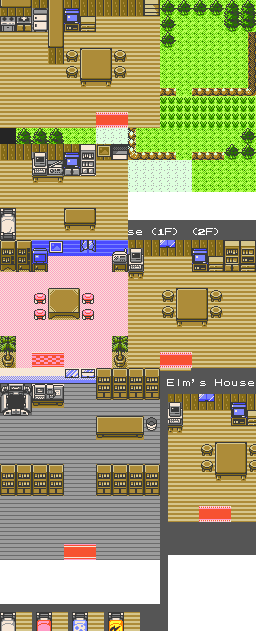
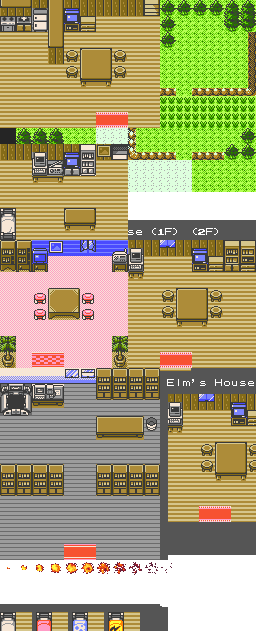
firebeam spell

Changed region(s): [[0.125, 0.8732, 0.5938, 0.9033], [0.625, 0.8732, 0.6562, 0.9635]]

diff --git a/src/systems/spell_effect.rs b/src/systems/spell_effect.rs
@@ -1,0 +1,62 @@
+use super::System;
+use crate::{
+    components::{Position, SpellEffect},
+    input::Input,
+    resource::Resources,
+};
+use hecs::World;
+use pixels::Pixels;
+use std::time::Duration;
+
+pub struct SpellEffectRenderSystem;
+
+impl System for SpellEffectRenderSystem {
+    fn update(
+        &self,
+        world: &mut World,
+        resources: &mut Resources,
+        pixels: &mut Pixels,
+        _: &Input,
+        delta_time: Duration,
+    ) {
+        for (_, (effect, position)) in world.query_mut::<(&mut SpellEffect, &Position)>() {
+            effect.frame_time += delta_time.as_secs_f32();
+
+            if effect.frame_time >= 0.06 {
+                let cloned_effect = effect.clone();
+                let frames = cloned_effect.get_sprite_frames();
+                effect.current_frame += 1;
+                effect.frame_time = 0.0;
+
+                if effect.current_frame >= frames.len() {
+                    effect.is_finished = true;
+                }
+            }
+
+            if !effect.is_finished {
+                let frames = effect.get_sprite_frames();
+                let (sprite_x, sprite_y) = frames[effect.current_frame % frames.len()];
+                let screen_pos = resources.camera.world_to_screen(*position);
+
+                resources.effects_spritesheet.0.draw_sprite_to_buffer(
+                    sprite_x,
+                    sprite_y,
+                    pixels.frame_mut(),
+                    screen_pos.x.round() as i32,
+                    screen_pos.y.round() as i32,
+                );
+            }
+        }
+
+        let mut to_remove = Vec::new();
+        for (entity, effect) in world.query::<&SpellEffect>().iter() {
+            if effect.is_finished {
+                to_remove.push(entity);
+            }
+        }
+
+        for entity in to_remove {
+            let _ = world.despawn(entity);
+        }
+    }
+}

diff --git a/src/application.rs b/src/application.rs
@@ -1,9 +1,13 @@
+use pixels_engine::components::FireSpell;
 use pixels_engine::components::Light;
 use pixels_engine::components::Player;
 use pixels_engine::resource::LightMap;
+use pixels_engine::spritesheet::EffectsSpritesheet;
+use pixels_engine::systems::cast_spell::CastSpellSystem;
 use pixels_engine::systems::light_control::LightControlSystem;
 use pixels_engine::systems::light_render::LightRenderSystem;
 use pixels_engine::systems::light_render::LightUpdateSystem;
+use pixels_engine::systems::spell_effect::SpellEffectRenderSystem;
 use pixels_engine::vec2::Vec2;
 use pixels_engine::SCALE_FACTOR;
 
@@ -64,6 +68,7 @@ impl Application {
             Movement::new(48.0),
             Player,
             Light::new(115.0, 1.0, [1.0, 1.0, 1.0]),
+            FireSpell,
         ));
 
         Self {
@@ -76,6 +81,9 @@ impl Application {
                 camera,
                 character_spritesheet: CharacterSpritesheet(
                     Spritesheet::new("./assets/characters_spritesheet.png", 16, 16).unwrap(),
+                ),
+                effects_spritesheet: EffectsSpritesheet(
+                    Spritesheet::new("./assets/effects.png", 16, 16).unwrap(),
                 ),
                 current_level_id: CurrentLevelId(tilemap.initial_level_id()),
                 tilemap,
@@ -93,9 +101,11 @@ impl Application {
         systems.add_update_system(TileAnimationSystem);
         systems.add_update_system(CameraFollowSystem);
         systems.add_update_system(LightUpdateSystem);
+        systems.add_update_system(CastSpellSystem);
 
         systems.add_render_system(TileRenderSystem);
         systems.add_render_system(SpriteRenderSystem);
+        systems.add_render_system(SpellEffectRenderSystem);
         // systems.add_render_system(LightRenderSystem);
         systems.add_render_system(LevelTransitionSystem);
 

diff --git a/src/systems/cast_spell.rs b/src/systems/cast_spell.rs
@@ -1,0 +1,59 @@
+use hecs::{With, World};
+
+use crate::{
+    components::{FireSpell, Movement, Position, SpellEffect, SpellEffectType},
+    movement_util::Direction,
+    vec2::Vec2,
+    TILE_SIZE,
+};
+
+use super::System;
+
+pub struct CastSpellSystem;
+
+impl System for CastSpellSystem {
+    fn update(
+        &self,
+        world: &mut hecs::World,
+        _: &mut crate::resource::Resources,
+        _: &mut pixels::Pixels,
+        input: &crate::input::Input,
+        _: std::time::Duration,
+    ) {
+        let mut spells_to_cast = Vec::new();
+        for (_, (position, movement)) in
+            world.query::<With<(&Position, &Movement), &FireSpell>>().iter()
+        {
+            if input.space() {
+                spells_to_cast.push((*position, movement.direction));
+            }
+        }
+
+        for (caster_position, caster_direction) in spells_to_cast {
+            cast_spell(
+                world,
+                caster_position,
+                caster_direction,
+                SpellEffectType::Fireball,
+            );
+        }
+    }
+}
+
+pub fn cast_spell(
+    world: &mut World,
+    caster_position: Position,
+    caster_direction: Direction,
+    spell_type: SpellEffectType,
+) {
+    for i in 1..=5 {
+        let offset =
+            caster_direction.to_vector() * (TILE_SIZE as f32 * i as f32) + Vec2::new(0.0, -4.0);
+        let effect_position = caster_position + offset;
+
+        world.spawn((
+            SpellEffect::new(spell_type),
+            Position::new(effect_position.x, effect_position.y),
+        ));
+    }
+}

diff --git a/src/components.rs b/src/components.rs
@@ -1,3 +1,4 @@
+use lazy_static::lazy_static;
 use std::time::Duration;
 
 use crate::input::Input;
@@ -134,4 +135,40 @@ impl Light {
             color,
         }
     }
+}
+
+pub struct FireSpell;
+
+#[derive(Debug, Clone)]
+pub struct SpellEffect {
+    pub effect_type: SpellEffectType,
+    pub current_frame: usize,
+    pub frame_time: f32,
+    pub is_finished: bool,
+}
+
+#[derive(Debug, Clone, Copy)]
+pub enum SpellEffectType {
+    Fireball,
+}
+
+impl SpellEffect {
+    pub fn new(effect_type: SpellEffectType) -> Self {
+        Self {
+            effect_type,
+            current_frame: 0,
+            frame_time: 0.0,
+            is_finished: false,
+        }
+    }
+
+    pub fn get_sprite_frames(&self) -> &[(u32, u32)] {
+        match self.effect_type {
+            SpellEffectType::Fireball => FIREBALL_FRAMES.as_slice(),
+        }
+    }
+}
+
+lazy_static! {
+    static ref FIREBALL_FRAMES: Vec<(u32, u32)> = (0..176).step_by(16).map(|x| (x, 0)).collect();
 }

diff --git a/src/tile.rs b/src/tile.rs
@@ -316,12 +316,16 @@ fn read_animation_data(
         .1
         .split(',')
         .map(|id| {
-            let id_u32 = id.parse::<u32>().expect("Failed to parse tile id");
+            let id_u32 = id.parse::<u32>().expect("Tile id in animationTiles should be a number");
             tile_id_to_position(id_u32, tileset_width)
         })
         .collect::<Vec<IVec2>>();
-    let frame_time =
-        custom_data_lines[1].split_once(":")?.1.parse::<u64>().expect("Failed to parse frame time");
+
+    let frame_time = custom_data_lines[1]
+        .split_once(":")?
+        .1
+        .parse::<u64>()
+        .expect("Frametime in animation should be a number");
 
     let tile_animation = TileAnimation::new(animation_frames, Duration::from_millis(frame_time));
 

diff --git a/src/input.rs b/src/input.rs
@@ -9,6 +9,7 @@ pub struct Input {
     shift: bool,
     j: bool,
     k: bool,
+    space: bool,
 }
 
 impl Input {
@@ -51,6 +52,10 @@ impl Input {
                     }
                     VirtualKeyCode::K => {
                         self.k = is_pressed;
+                        true
+                    }
+                    VirtualKeyCode::Space => {
+                        self.space = is_pressed;
                         true
                     }
                     VirtualKeyCode::LShift => {
@@ -118,5 +123,9 @@ impl Input {
 
     pub fn k(&self) -> bool {
         self.k
+    }
+
+    pub fn space(&self) -> bool {
+        self.space
     }
 }

diff --git a/src/resource.rs b/src/resource.rs
@@ -1,6 +1,6 @@
 use crate::{
     camera::Camera,
-    spritesheet::CharacterSpritesheet,
+    spritesheet::{CharacterSpritesheet, EffectsSpritesheet},
     systems::level_transition::ScreenTransition,
     tile::{CurrentLevelId, TileMap},
     SCREEN_HEIGHT, SCREEN_WIDTH,
@@ -9,6 +9,7 @@ use crate::{
 pub struct Resources {
     pub camera: Camera,
     pub character_spritesheet: CharacterSpritesheet,
+    pub effects_spritesheet: EffectsSpritesheet,
     // TODO : move this back into tilemap struct
     pub current_level_id: CurrentLevelId,
     pub tilemap: TileMap,

diff --git a/src/systems/movement.rs b/src/systems/movement.rs
@@ -139,7 +139,7 @@ fn is_traversable(ctx: &MovementContext) -> bool {
 }
 
 fn next_position(ctx: &MovementContext) -> Vec2 {
-    let movement_speed_multiplier = if ctx.input.shift() { 3.0 } else { 1.0 };
+    let movement_speed_multiplier = if ctx.input.shift() { 2.5 } else { 1.5 };
     let movement_vector = ctx.movement.direction.to_vector();
     let movement_step = movement_vector
         * ctx.movement.speed

diff --git a/src/systems/camera.rs b/src/systems/camera.rs
@@ -26,7 +26,7 @@ impl System for CameraFollowSystem {
     ) {
         let camera = &mut resources.camera;
         let offset = Vec2::new((TILE_SIZE / 2) as f32, TILE_SIZE as f32 / 2.0);
-        let dead_zone = TILE_SIZE as f32 * 2.0;
+        let dead_zone = TILE_SIZE as f32 * 2.5;
 
         for (_, position) in world.query_mut::<With<&Position, &Player>>() {
             let target_pos = *position + offset;

diff --git a/src/systems/mod.rs b/src/systems/mod.rs
@@ -5,12 +5,14 @@ use pixels::Pixels;
 use crate::{input::Input, resource::Resources};
 
 pub mod camera;
+pub mod cast_spell;
 pub mod character_animation;
 pub mod debug_grid;
 pub mod level_transition;
 pub mod light_control;
 pub mod light_render;
 pub mod movement;
+pub mod spell_effect;
 pub mod sprite_render;
 pub mod tile_animation;
 pub mod tile_render;

diff --git a/src/spritesheet.rs b/src/spritesheet.rs
@@ -5,6 +5,7 @@ use image::{DynamicImage, GenericImageView};
 use crate::{SCREEN_HEIGHT, SCREEN_WIDTH};
 
 pub struct CharacterSpritesheet(pub Spritesheet);
+pub struct EffectsSpritesheet(pub Spritesheet);
 
 pub struct Spritesheet {
     image: DynamicImage,

diff --git a/src/systems/character_animation.rs b/src/systems/character_animation.rs
@@ -43,6 +43,6 @@ fn animation_frame_duration(input: &Input) -> f32 {
     if input.shift() {
         0.075
     } else {
-        0.15
+        0.125
     }
 }
